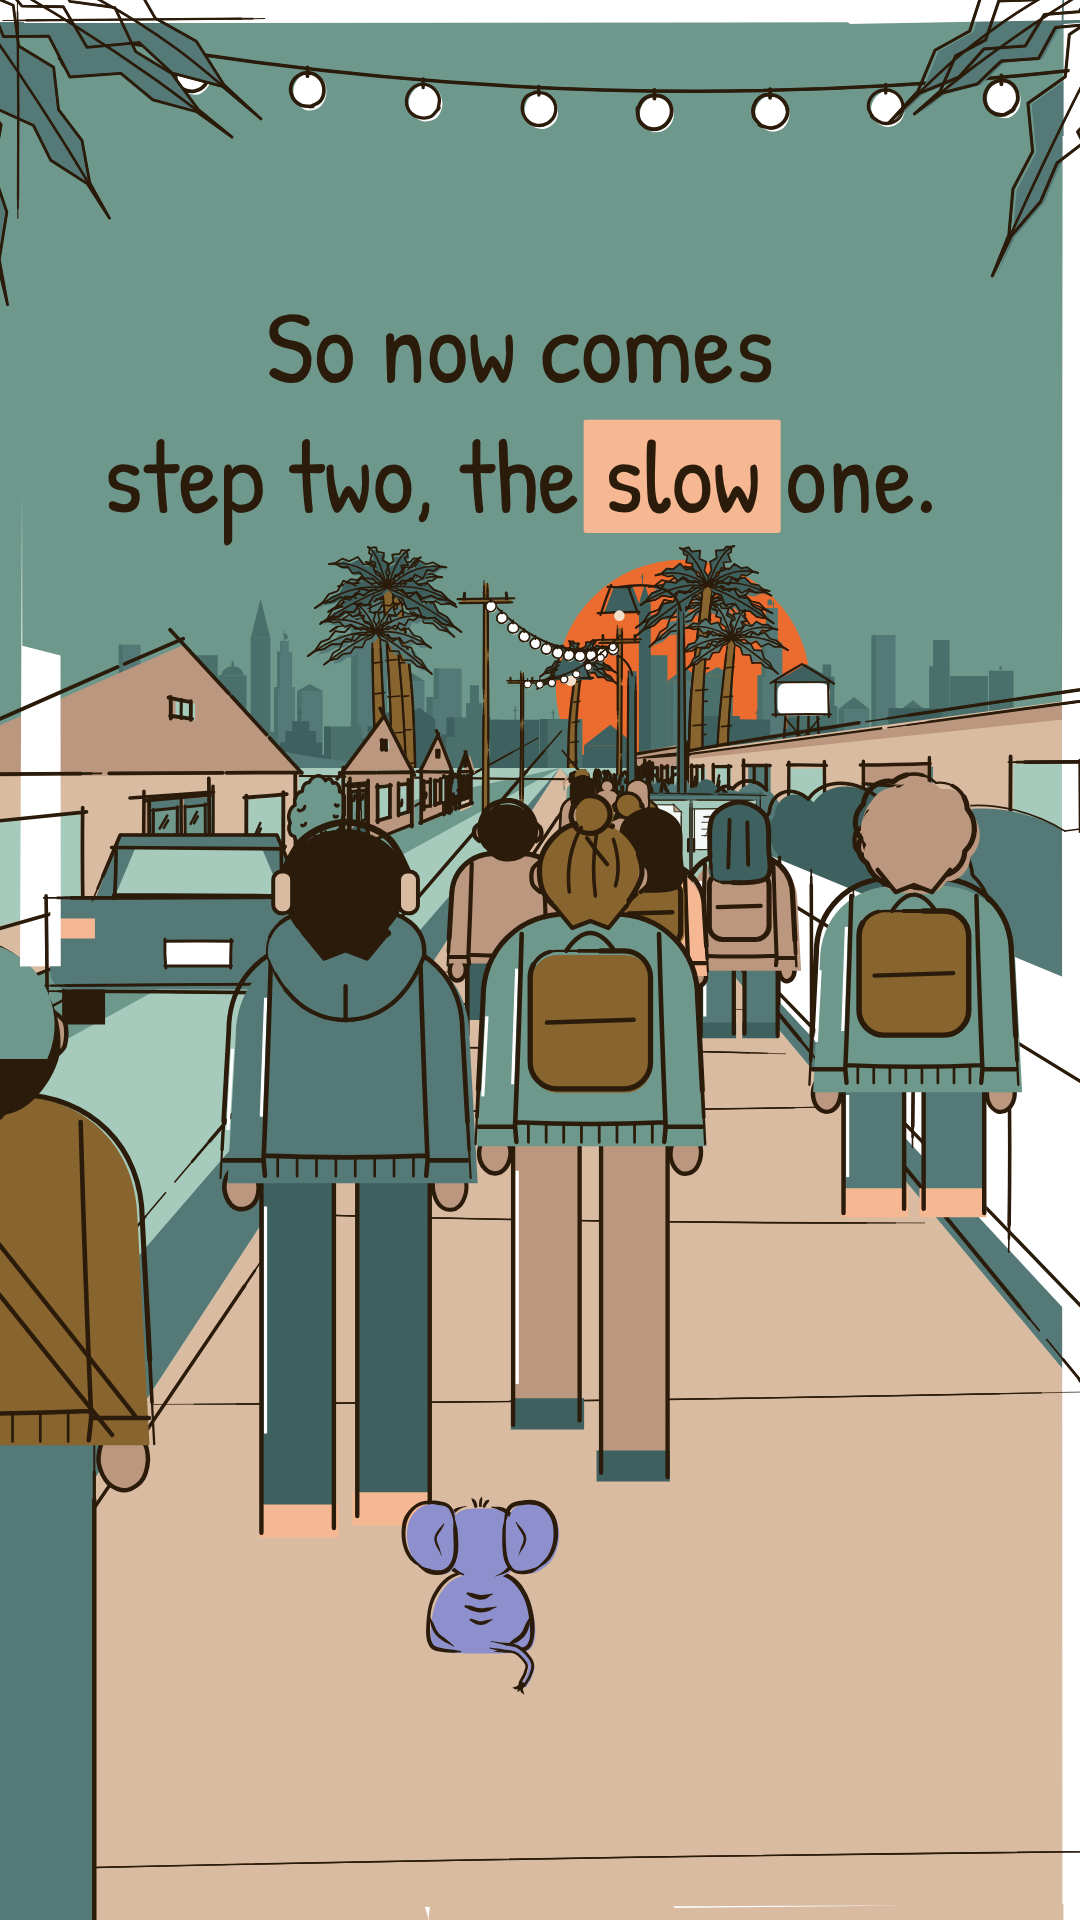
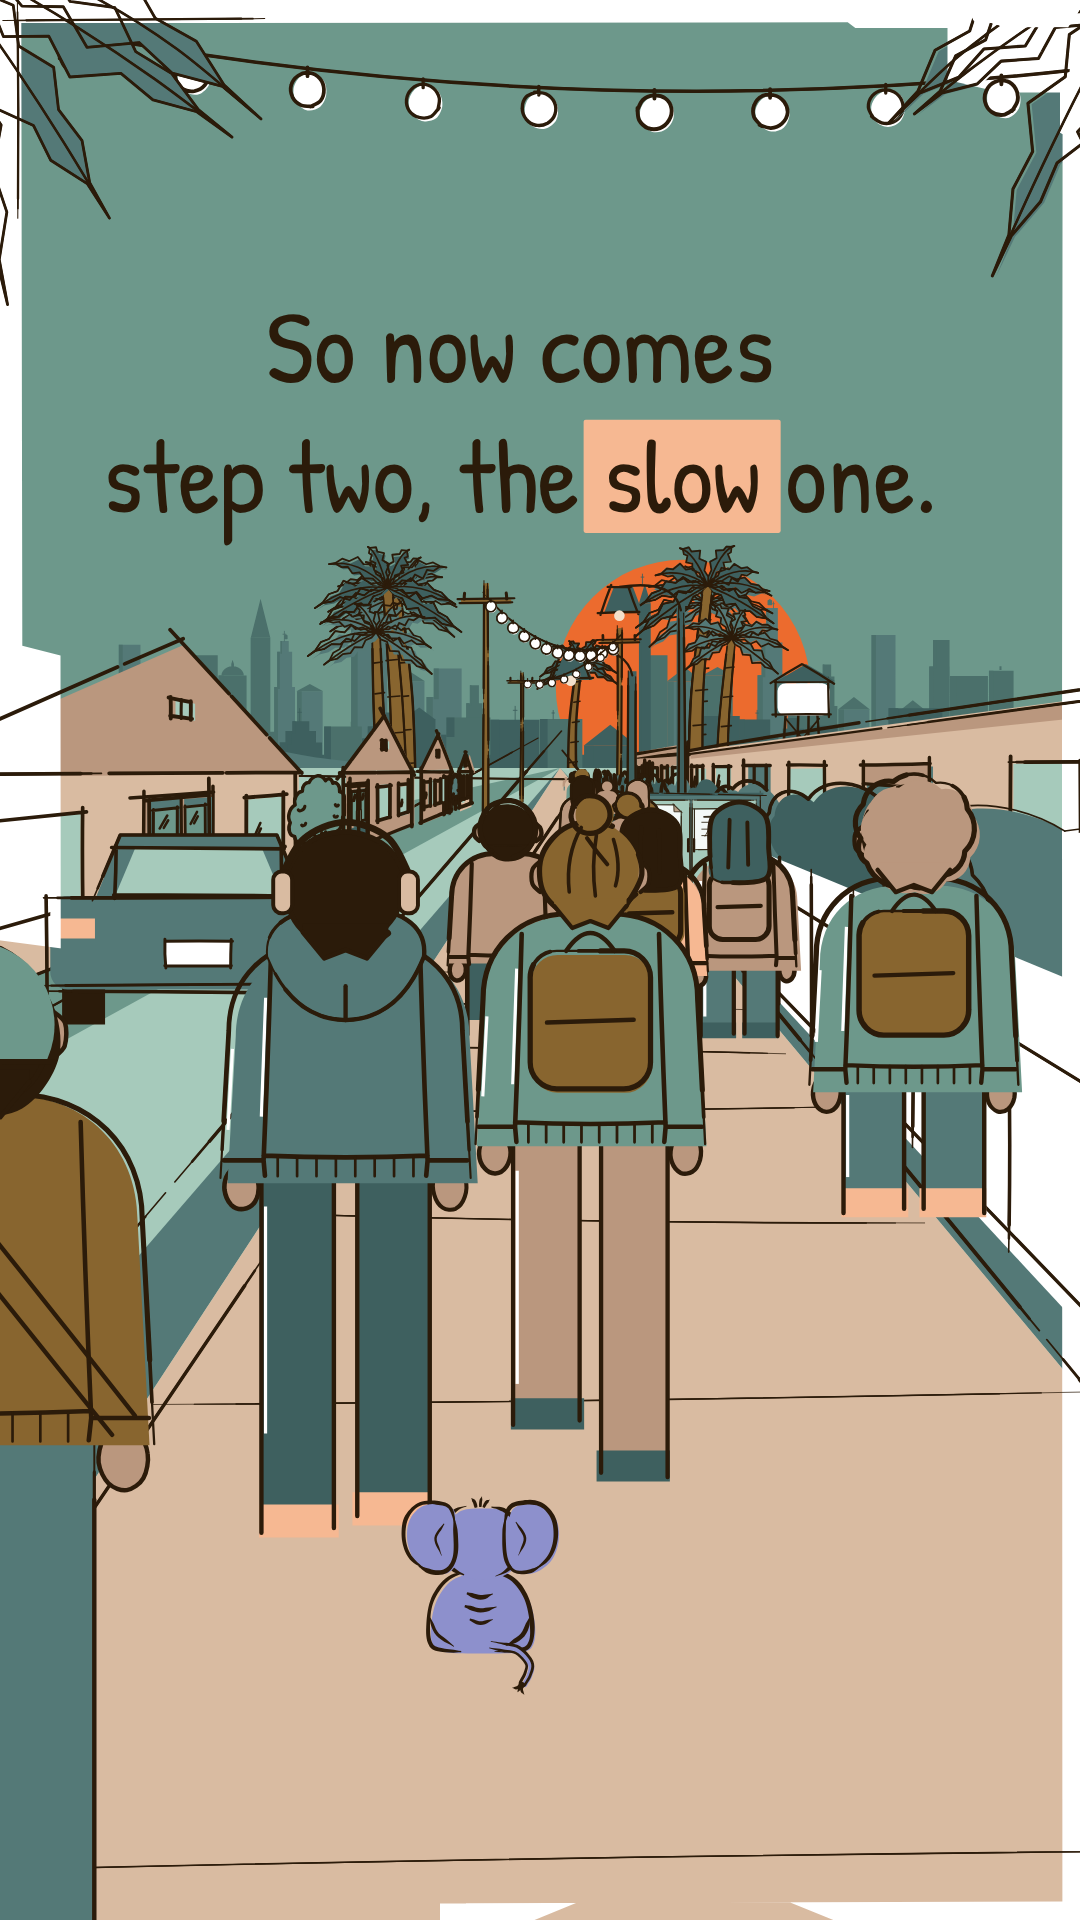
WIP: agent progress
Claude-Session: https://claude.ai/code/session_01BGZ47aBhF9yKpEaeiLeCPQ

diff --git a/video/docs/scenes/S01.md b/video/docs/scenes/S01.md
@@ -2,89 +2,128 @@
 
 "Governments all over Europe just shut down a bunch of their own websites on purpose,"
 0.000-4.715 s (START -> cut(purpose)), PEAK 1 (the hook). Files: `src/scenes/Scene01.tsx` (World + the shot),
-`src/scenes/scene01/` (`plaza.tsx` the shot, `cast.tsx` citizens / pigeons / Pip, `camera.ts`, `timing.ts`,
-`preview.entry.tsx` an isolated preview entry).
+`src/scenes/scene01/` (`plaza.tsx` the shot, `cast.tsx` citizens / onlooker phone arm / pigeons / Pip, `screens.tsx`
+the ink-dark dead screens (local stand-in), `camera.ts`, `timing.ts`, `preview.entry.tsx` an isolated preview entry).
 
 ## What is in it
 
 GovernmentPlaza (`state="frame0"`, kit v3 events) at the PEAK-1 layout, the r155 power-button sun in the gap, the far
-civic skyline (`PLAZA_CIVIC`), Pip on his bollard, Bit idling on govA's cornice (the set's BitSlot, 22 px), the lamp
-pigeons, 6 readable + 4 far citizens, the edge onlookers. Every beat of the storyboard, on the recorded take:
+civic skyline (`PLAZA_CIVIC`), Pip on his bollard, Bit seated on govA's cornice ledge (22 px), the lamp pigeons, a
+watching crowd in three rows (fix round 1), the edge onlookers. Every beat of the storyboard, on the recorded take:
 
 | t (s) | word | what happens |
 |---|---|---|
-| 0.00 | START | frame 0 = the bottom of the SunPress (0.88), ripple at its emission radius, govB's screen the bright CRT line (`state="frame0"`); the press releases (`SunPress mode="release"`, ripple r155 -> r195), govB's line -> dot -> dark; camera sine push from rest; c1 / c3 are walking (the seam is mid-motion) |
-| 0.12-0.88 | - | three pigeons fly in from off-frame left over govA's steps and land on the lamp crossbar on 'over' (0.06 s stagger); Pip flinches at the click (0.12) |
-| 0.34 | Governments | c1 / c3 stop and turn toward govB (lean); Pip's ear-flick pop + look at govB |
-| 0.63 | all | govA's screen CRT power-off; walker c0 slows and stops |
-| 0.885 | over | govC's screen CRT power-off; first pigeon touches down |
-| 1.155 | Europe | the six civic silhouettes step one fill darker as WHOLE shapes, left to right, 0.06 s apart |
-| 1.405 | - | the two far domes' lanterns pop off; c2 and the left edge onlooker raise phones |
+| 0.00 | START | frame 0 = the bottom of the SunPress (0.88), ripple at its emission radius, govB's screen the bright CRT line (`state="frame0"`); the press releases (`SunPress mode="release"`, ripple r155 -> r195), govB's line -> dot -> dead (ink-dark glass + glint); camera sine push from rest; front-row walkers fB / fC mid-stride (the seam is mid-motion) |
+| 0.12-0.88 | - | three pigeons (body + flapping wings) fly in from off-frame left UNDER govA's window band and swing back onto the lamp crossbar on 'over' (0.06 s stagger); Pip flinches at the click (0.12) |
+| 0.34 | Governments | fB / fC stop and swap to a 3/4 head toward govB (cheek + ear appear) with an 8 deg lean; fA (0.44) and fD (0.50) follow; Pip's ear-flick pop (x1.9) + look at govB |
+| 0.63 | all | govA's screen CRT power-off; second-row sA turns; far walker c0 slows and stops |
+| 0.885 | over | govC's screen CRT power-off; second-row sB turns; first pigeon touches down |
+| 1.155 | Europe | the six civic silhouettes step one fill darker as WHOLE shapes, left to right, 0.06 s apart; the two dome lanterns pop off ON their dome's step (1.215 / 1.275) |
+| 1.405 | - | fA raises a phone along an elbow arc (lit screen: a 3-stroke mini govB); the left edge onlooker raises his (1.465, elbow arc, phone ends right of his head at screen x ~165, clear of the lamp post) |
 | 1.565 | just | the power glyph glints (two ink ticks) |
-| 1.64 (lands 1.80) | shut | govB's shutter slams (6 px bounce), govB one palette step darker on landing |
-| 1.91 (lands 2.07) | down | govA's shutter slams, govA darker |
-| 2.28 | bunch | govC's shutter drops only HALF way (`shutterStop 0.5`); its clock face stays white |
-| 2.565 | of | c5 points up at govC; a pigeon shuffles on the bar |
+| 1.55 -> 1.71 | shut | govB's shutter slams and LANDS on the word (6 px bounce); govB one palette step darker on landing (1.71) |
+| 1.82 -> 1.98 | down | govA's shutter slams, lands on the word, govA darker |
+| 2.20 -> 2.35 | bunch | govC's shutter drops only HALF way (`shutterStop 0.5`) and jolts on the word: teal slats over the ink-dark half screen; its clock face stays white |
+| 2.565 | of | fD swaps back to the back view and points straight up at govC (elbow arm); a pigeon shuffles on the bar |
 | 2.685 / 2.745 | their | the lamp lantern goes off; the pigeons scatter (0.05 s stagger) |
-| 2.885 -> 3.035 | own -> websites | GAG: Pip pops to trunk-up (wide, looking at govB), hops on the bollard, lands on 'websites'; c2 lowers the phone; Pip turns back at 3.24 |
-| 3.385-3.505 | - | padlocks pop on govB, govA, govC (0.06 s apart) |
+| 2.885 -> 3.035 | own -> websites | GAG: Pip pops to trunk-up (wide, looking at govB), hops on the bollard, lands on 'websites'; fA lowers the phone; Pip turns back at 3.24 |
+| 3.345-3.465 | - | padlocks (36 px, 1.3x) pop on govB, govA, govC (0.06 s apart), led 0.04 s so the grow reads ON each lock_click |
 | 3.535 | - | a pigeon circles back to the lamp (lands 3.875) |
 | 3.695-3.795 | on | the LETTERED 'back soon' tags (J1) swing on (govB one line 104 px wide, govA / govC two lines) and hang still |
-| 3.955 | PURPOSE | govB's dome lantern pops off; the citizens turn back to the plaza; Pip glances back |
+| 3.955 | PURPOSE | govB's dome lantern pops off; all six front / second-row heads swap back to the back view (0.0-0.08 s stagger), the leans spring back, fD lowers his pointing arm; the three padlocks glint (3.955 / 3.985 / 4.015); Pip glances back (bigger pop) |
 | 4.265 | - | an ink ring pops around govB's lock box |
-| 4.385-4.715 | - | the dive into the lock box (fixed 0.33 s, in(quad)); Pip leaps toward the lens and out right (he lands on S02's rod) |
+| 4.355-4.43 | - | Pip crouches in the side pose on the bollard (2 frames, squash +0.12) |
+| 4.385-4.715 | - | the dive into the lock box (fixed 0.33 s, anchored on the lock); Pip leaps toward the lens (stretch -0.08 at take-off, grows 1.0 -> 1.3 along the arc) and out right (he lands on S02's rod); the sun leaves the frame up-right |
 
-Cover frame 4.205: three buildings shuttered, padlocked and tagged, govD lit, the civic skyline dark.
+Cover frame 4.205: three buildings shuttered, padlocked and tagged (govC half: slats over a black half), govD lit, the
+civic skyline dark, the crowd turned toward govB.
+
+## The crowd (fix round 1)
+
+Three rows of back-view people facing the plaza (the references' signature, playbook peak dose), kept clear of govB's
+door and lock box (world x 470-620, y 1230-1400: the dive target), of Pip (x 760-870) and of the onlooker's phone:
+
+- FRONT row, 134-192 px on the plaza: fA (300, 1540, 190; phone), fB (415, 1514, 162; walker), fC (712, 1532, 180;
+  walker), fD (905, 1494, 134; the pointer, straight up at govC's clock tower, x < 950 so out of the right rail).
+- SECOND row, ~110 px (feet ~1472): sA (255), sB (645).
+- FAR row at the steps, 52-66 px (the set's citizen seeds `plaza/cit0/4/6/7`), one silhouette on the sun path.
+
+The head turn is a back-view -> 3/4 head swap (cheek and jaw edge + ear appear on the turning side, grows 20 -> 100 %
+in 0.1 s; `HeadTurn` in `cast.tsx`), not a lean. Phones are drawn by the scene (`ElbowArm` 2-link IK, the elbow
+prefers DOWN then outward, so the arm folds up and never sweeps flat across the plaza) with a lit screen showing a mini
+govB (dome stroke, tealDark block, cream slats): everyone is filming the shutdown.
 
 ## Camera (`scene01/camera.ts`)
 
-Storyboard keys on the buildings plane, as zooms about each key pair's FIXED screen point on log zoom (so the plane hits
-the keys exactly): push (540,960,1.00) -> (552,972,1.04) inOut(sine) 0-1.98 from rest; hold to 4.385; dive to
-(536.7,1258.4,3.19) in(quad) in 0.33 s: govB's lock box lands at screen (560,1150), 70 x 86 px, exactly where S02's
-blueprint lock lands (checked against S02's frame 0: (562,1157), same ring). Light multiplane parallax through the set's
-`wrap` (storyboard far x0.3 / buildings x0.7 / near x1.0 -> zoom exponents far + sun 0.43, buildings / ground / light 1,
-near 1.43). `scripts/camspeed.py` on the render: no strobe and no velocity step outside the dive (allow 4.385-4.715).
+Storyboard keys on the buildings plane: push (540,960,1.00) -> (552,972,1.04) inOut(sine) 0-1.98 from rest, as a zoom
+about the key pair's fixed screen point on log zoom; hold to 4.385; dive to (536.7,1258.4,3.19) in 0.33 s.
+Fix round 1, the dive is ANCHORED ON THE LOCK: the lock box's screen point p(u) = lerp((530.6,1319.8), (560,1150),
+inOutSine(u)) while the zoom z(u) = 1.04 x (3.19/1.04)^inQuad(u) grows about it (u = (t - 4.385) / 0.33). The end
+camera is unchanged (lock box 70 x 86 px at screen (560,1150), checked against S02's frame 0: same position and ring),
+and the lock's screen velocity is ZERO at the cut, matching S02's still lock (gate 1: no translation stop at the
+match). Peak translation ~27 px/frame mid-dive, inside the allow window; both curves start with zero slope (no velocity
+step at 4.385). Light multiplane parallax through the set's `wrap` (far + sun 0.43, buildings / ground / light 1, near
+1.43). During the dive the SUN's exponent ramps 0.43 -> 1.5 on the dive's inOut(sine) curve so the sun leaves the
+frame with the dive (f141: disc bottom at y -168); the far layer keeps 0.43 (ramping it made the civic silhouettes
+loom up in the gap).
 
-## Shims
+## Local stand-ins (shims)
 
-None left. The first pass used local stand-ins (CRT screens, far civic skyline, half shutter, lettered tag); they were
-removed when the kit landed them (GovernmentPlaza v3 `state="frame0"`, `screenOffAt`, `shutterStop`, `farCivic`,
-`civicOffAt`, `civicLanternsOffAt`, per-building `lanternOffAt`, `tagProps` / `padlockProps`; props `BackSoonTag lettered`,
-`SunPress mode="release"`). Scene-local only: the cast acting (`cast.tsx`: walking / stopping / leaning citizens on the
-SET's citizen seeds, a pointing arm, flying pigeons, Pip's flinch / startle hop / lens leap) and the parallax camera.
+- `scene01/screens.tsx` (`s01WindowSlot`, through the set's public `windowSlot`): the plaza windows with an INK-DARK
+  dead screen (palette.ink glass + one cream diagonal glint) instead of the kit's tealDark, which was the same value as
+  the shutter slats (govC's half shutter read as fully shut). Same BrowserChrome args / seeds / CRT power-off as the
+  set. Swap out when GovernmentPlaza's screen-off state does this (request below); S12 must pass the same slot until
+  then (`S01_WINDOWS`).
+- Bit: the set's BitSlot is turned off (`bit={false}`) and the scene draws the same Bit (seed `plaza/bit`) 6 px lower,
+  seated on the cornice ledge line (`S01_BIT` = (262, 748)). Swap back when PLAZA.bit moves.
+- Edge onlooker 0's phone arm: the prop's `raisePhoneAt` sweeps a straight 240 px arm; the scene renders the onlooker
+  with arms 'near' until the raise and then none, plus `OnlookerPhoneArm` (mirrors the prop's figure frame).
+
+Kit pieces in use: GovernmentPlaza v3 (`state="frame0"`, `screenOffAt`, `shutterStop`, `farCivic`, `civicOffAt`,
+`civicLanternsOffAt`, `lanternOffAt`, `tagProps` / `padlockProps` incl. `size`, `glintAt`), props `BackSoonTag
+lettered`, `SunPress mode="release"`, `PowerGlyph`, `MarkRing`, `EdgeOnlooker`, `Bit`, `BrowserChrome`.
 
 ## Loop seam contract (for S12)
 
 Frame 0 = `<PlazaShutdown/>` at t = 0. To end S12 on it: GovernmentPlaza as the kit's `rewind` demo (`idleOffset` =
--duration) ending with govB `screenLineAt` (the line), `SunPress mode="reverse"`, plus the S01 cast at t = 0, exported
-from `scene01/plaza.tsx`: `S01_CITIZENS` (set seeds `plaza/cit0..9`; c0 / c1 / c3 are mid-stride at t = 0: kit Person
-`walk`, render `PlazaCitizen` with S12 time mapped onto S01 time), `S01_PIGEONS` (none on the bar at t = 0: they fly in
-from off-frame), `S01_PIP` / `S01_PIP_SEED` (Elephant sit-back, look 0, seed 11, scale 1, idle clock t = 0 at (812,1426)),
-the edge onlookers = the set's (same seeds, no phone at t = 0), `S01_GOV` (padlock / tag positions moved apart: pass the
-same `padlockProps` / `tagProps` in S12 or the tags jump at the hard cut in).
+-duration) ending with govB `screenLineAt` (the line), `SunPress mode="reverse"`, `windowSlot={S01_WINDOWS}` (or the
+same slot over S12's own events), `bit={false}` + the Bit at `S01_BIT`, plus the S01 cast at t = 0, exported from
+`scene01/plaza.tsx`: `S01_CITIZENS` (render `PlazaCitizen` with S12 time mapped onto S01 time; fB / fC are mid-stride
+at t = 0, nobody turned, no phone up), `S01_PIGEONS` (none on the bar at t = 0), `S01_PIP` / `S01_PIP_SEED` (Elephant
+sit-back, look 0, seed 11, scale 1, idle clock t = 0 at (812,1426)), the edge onlookers = the set's seeds (no phone at
+t = 0), `S01_GOV` (padlock / tag positions and sizes: pass the same `padlockProps` / `tagProps`).
 
 ## QA (scripts/qa/run_all.sh S01, half scale)
 
-- Life: **10.0/10 PASS**, 8.7 events/s, longest dead run 0.13 s, max gap between event onsets 0.83 s.
-- framecheck: **1 ERROR** (caption legibility f136-f139, 4.53-4.63 s, inside the storyboard dive) + 2 UI-zone warnings
-  (the onlooker's phone arm in the bottom band at 1.47 s; Pip / the near layer leaving through the rail in the dive).
-  Per frame: 6.6 / 21 / 12 / 12 % of the ring below 3:1 (limit 5 %). Cause: any camera path from the hold to S02's match
-  camera sweeps govB's dome, drum and shutter (world y 595-1116) through the caption band; the storyboard exempts these
-  0.33 s dives from the sky ceiling (`transition: true`, `cameraSpeedAllow`), framecheck does not (verified: even an
-  explicit `transitions` window in scenes.json only excuses UI zones, not caption contrast). Request below.
-- `scripts/camspeed.py`: OK (dive allow-listed). `npx tsc --noEmit`: no errors in S01 files.
+- Life: **10.0/10 PASS**, 10.35 events/s (was 8.66), longest dead run 0.13 s, max gap between event onsets 0.47 s
+  (was 0.83). The 'Governments' beat now measures 8,000-10,000 px² (f11-f13); 'PURPOSE' 10,800-27,800 px² (f119-f122).
+- framecheck: **1 ERROR** (caption legibility f136-f138, 4.53-4.60 s, 16 % of the ring below 3:1; was f135-f139, 21 %)
+  + 2 UI-zone warnings (the onlooker's phone arm crossing the bottom band at 1.47 s; Pip / the near layer leaving through
+  the rail in the dive). Every error frame is inside the storyboard's dive window 4.385-4.715: any path to S02's match
+  camera sweeps govB's dome, drum and shutter (world y 595-1116) through the caption band. NOT fixable in this lane;
+  see the requests.
+- `scripts/camspeed.py S01 --allow=4.385-4.715`: OK (no strobe, no velocity step outside the dive).
+- `npx tsc --noEmit`: no errors in S01 files.
 
 ## Render cost
 
-~330 ms/frame at 1080 x 1920, concurrency 1, shared machine at load ~11 (24 spread frames, incl. page setup); 100-125
-ms/frame at half scale, concurrency 2 (the QA render).
+178 ms/frame at 1080 x 1920, concurrency 1 (24 spread frames incl. page setup, machine load ~5.7); 76-78 ms/frame at
+half scale, concurrency 2 (the QA render).
 
-## Known gaps / requests
+## Known gaps / requests (other lanes)
 
-- QA lane: let `framecheck.py` skip caption-contrast errors inside camera segments the storyboard marks
-  `transition: true` (the S01 and S04 dives, 0.33 s), or read them from a scenes.json `transitions` window. Same issue
-  will hit S04 -> S05.
-- Dead screens are the kit's tealDark, the same colour as the shutter curtains; govC's half shutter reads by its sand rail
-  and the padlock / tag riding it. Sets lane option: a teal dead screen would make every slam over a dark screen pop more.
+- BLOCKER for the gate (captions or QA lane, one of): (a) captions lane: end page 2 at cut(purpose) - 0.33 = 4.385 with
+  the reference-1 roll-up exit, so the band is clear by ~4.50 when govB's lantern enters it (S02's page 3 still rolls in
+  at 4.715); or (b) QA lane: framecheck skips caption contrast inside the storyboard's `transition: true` camera windows
+  (S01 4.385-4.715, the window camspeed already allows; same issue will hit S04 -> S05). Better still (core lane): a
+  scene-exported `captionRegions(t)` (like `Wiper.captionRegions`) so S01 could flip the caption to white over govB's
+  shutter for f139-f141.
+- Captions lane: frame 0 has no caption (page 1 pops in at 0.167 s because captions.json starts it at 0.19); the
+  storyboard wants page 1 on screen at frame 0, 24 px low, settling by 0.25 s (the same state Film draws at captionAt).
+- Sets lane (GovernmentPlaza): dead screen = ink-dark (~palette.ink) + one cream diagonal glint (then drop
+  `scene01/screens.tsx`); FarCivic dark step two values (e.g. #98C0AE -> ~#6E9A88, #84B09C -> ~#5D8577) so 'Europe'
+  reads on a phone (timing stays); PLAZA.bit +6 px (then drop the scene's own Bit); govD's tree: the two inner leaf
+  arcs at ~(1035,1370) / (1065,1385) read as a closed-eyed smiling face; ink by depth (2.2-2.6 px on govC and far
+  elements, 3.4 on govA / govB / govD), overshoots into the sun disc <= 12 px, one hatch stroke per flute on govA.
 - Previews: `src/entry-film.ts` bundles every scene, so another lane's half-written module can break S01 renders; use
   `node scripts/render-frames.mjs S01 <out> <t,...> --entry=src/scenes/scene01/preview.entry.tsx` (S01 only).
